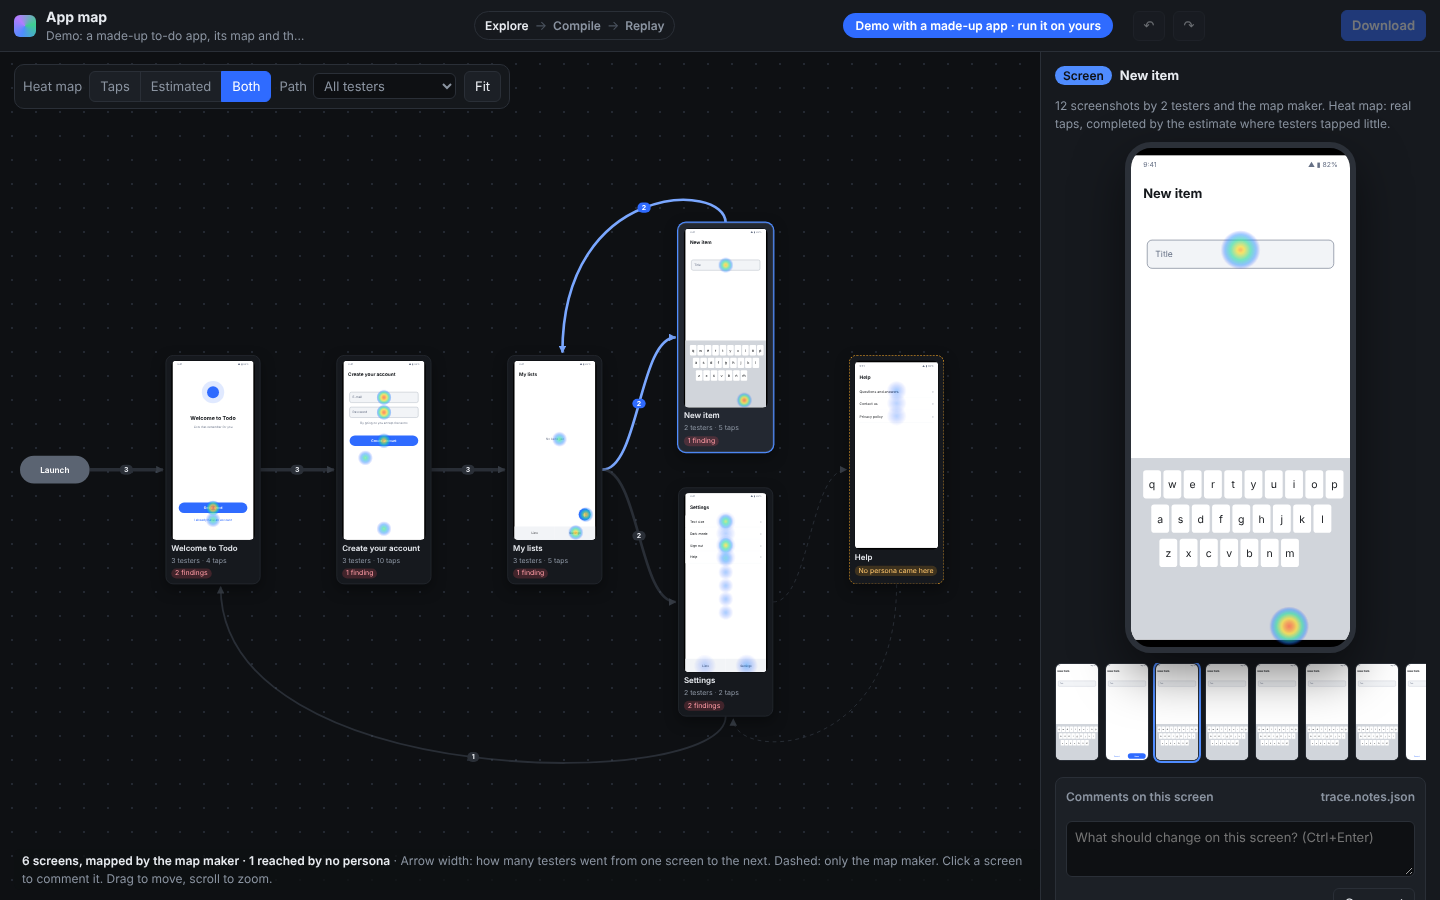
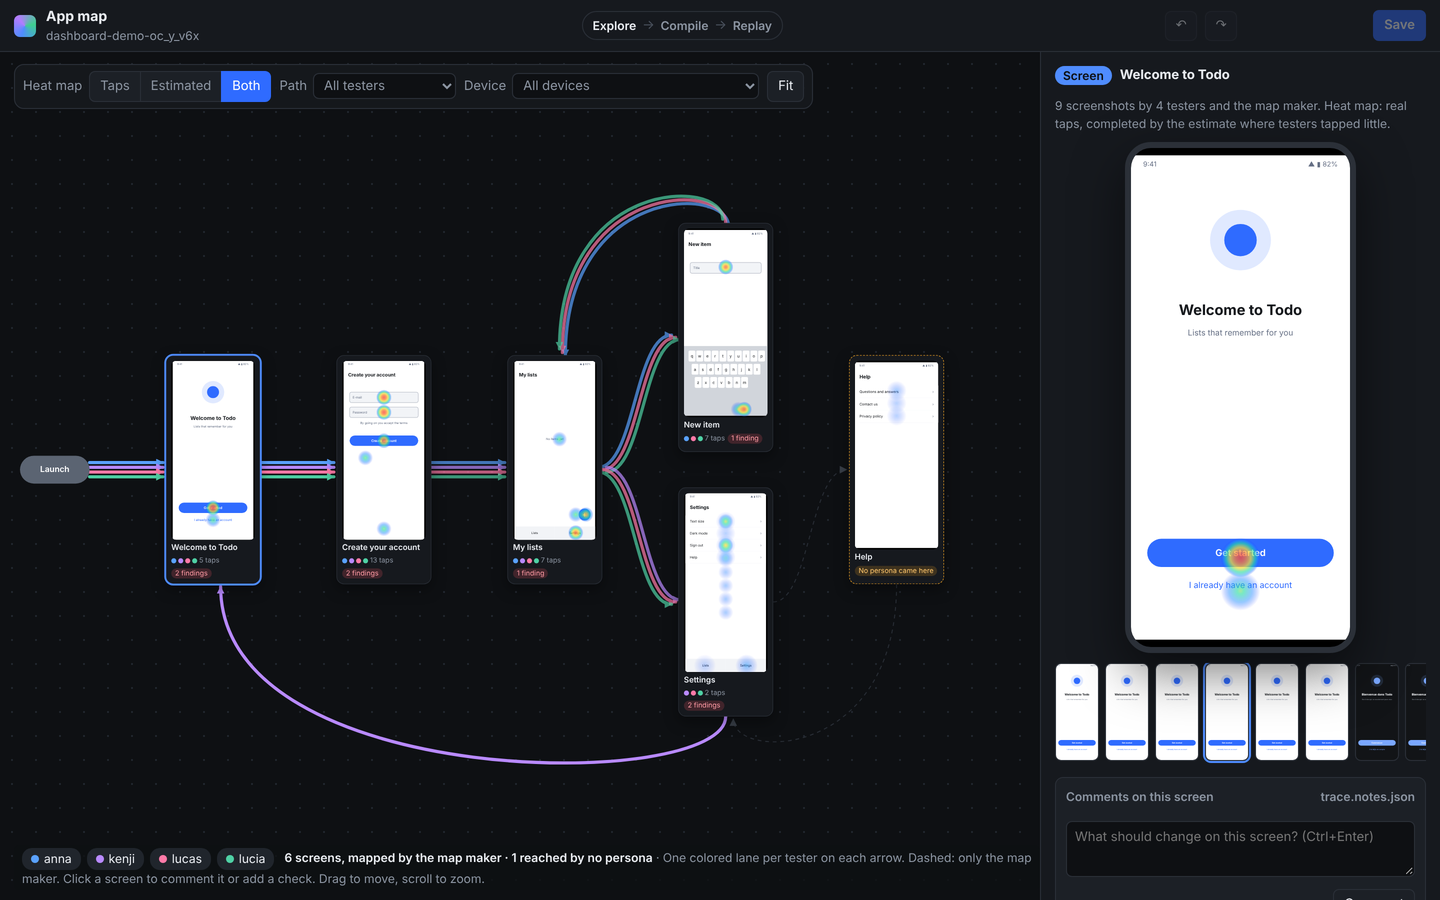
Map: one colored lane per tester on each arrow, a chip per tester, a dot per tester on each card

diff --git a/dashboard/app.js b/dashboard/app.js
@@ -372,6 +372,10 @@ function estimatedPoints(key, nn) {
 const firstVisit = (n) => n.visits.find((v) => !persona(v.key).mapper) || n.visits[0];
 const personaKeys = () => S.data.personas.filter((p) => !p.mapper).map((p) => p.key);
 
+// ---------- one color per tester, in the order of the run (the first three match the launch video) ----------
+const PALETTE = ["#5aa2ff", "#b98aff", "#ff7aa8", "#4fd1a5", "#ffb84d", "#5ad1e6", "#e6d95a", "#ff8a5a", "#9ad15a", "#d18aff"];
+const colorOf = (key) => { const i = personaKeys().indexOf(key); return i < 0 ? "#6b7686" : PALETTE[i % PALETTE.length]; };
+
 // ---------- devices: each tester's phone or tablet, and its shape on the map ----------
 const deviceOf = (key) => { const c = (traceOf(key).persona || {}).context || {}; const [w, h] = runSize(key); return c.device || `${w} × ${h}`; };
 const devices = () => [...new Set(personaKeys().map(deviceOf))];
@@ -405,7 +409,7 @@ function renderMap() {
   // edges
   const svg = svgEl("svg", { width: box.width, height: box.height, class: "map-edges" });
   const defs = svgEl("defs");
-  for (const [id, color] of [["map-arrow", "#6b7686"], ["map-arrow-on", "#7aa7ff"]]) {
+  for (const [id, color] of [["map-arrow", "#6b7686"], ...personaKeys().map((k, i) => [`map-arrow-${i}`, colorOf(k)])]) {
     const marker = svgEl("marker", { id, viewBox: "0 0 10 10", refX: 9, refY: 5, markerWidth: 12, markerHeight: 12, markerUnits: "userSpaceOnUse", orient: "auto" });
     marker.append(svgEl("path", { d: "M0,0 L10,5 L0,10 z", fill: color }));
     defs.append(marker);
@@ -435,11 +439,27 @@ function renderMap() {
       d = `M${x1},${y1} C${x1},${dip} ${x2},${dip} ${x2},${y2}`; lx = (x1 + x2) / 2; ly = (y1 + y2) / 8 + 0.75 * dip;
     }
     const title = (e.testers.size ? `${e.testers.size} tester${e.testers.size > 1 ? "s" : ""}, ${e.count} time${e.count > 1 ? "s" : ""}` : "Only the map maker went this way") + "\n" + [...e.actions].map(([k, v]) => `${k} (${v})`).join("\n");
-    const path = svgEl("path", { d, fill: "none", stroke: on ? "#7aa7ff" : "#4a5361", "stroke-width": e.testers.size ? 1.5 + 4 * (e.testers.size / maxCount) : 1.5,
-      ...(e.testers.size ? {} : { "stroke-dasharray": "6 6" }), "marker-end": on ? "url(#map-arrow-on)" : "url(#map-arrow)", opacity: on ? 1 : trail ? 0.15 : 0.45 });
-    const t = svgEl("title"); t.textContent = title; path.append(t);
-    svg.append(path);
-    if (e.testers.size) labels.push(h("div", { class: `edge-label${on ? " on" : ""}`, style: `left:${lx}px;top:${ly}px`, title }, String(e.testers.size)));
+    if (!e.testers.size) {   // only the map maker: dashed gray
+      const path = svgEl("path", { d, fill: "none", stroke: "#4a5361", "stroke-width": 1.5, "stroke-dasharray": "6 6", "marker-end": "url(#map-arrow)", opacity: trail ? 0.15 : on ? 0.9 : 0.45 });
+      const t = svgEl("title"); t.textContent = title; path.append(t);
+      svg.append(path);
+      continue;
+    }
+    // one lane per tester, in its color, side by side: 7.5 px apart, centred on the edge
+    const lanes = personaKeys().filter((k) => e.testers.has(k));
+    const pts = d.match(/-?\d+(\.\d+)?/g).map(Number);
+    const [sx, sy, ex, ey] = [pts[0], pts[1], pts[6], pts[7]];
+    const len = Math.hypot(ex - sx, ey - sy) || 1, nx = -(ey - sy) / len, ny = (ex - sx) / len;
+    lanes.forEach((k, li) => {
+      const off = (li - (lanes.length - 1) / 2) * 7.5;
+      const q = pts.map((v, vi) => v + off * (vi % 2 ? ny : nx));
+      const dl = `M${q[0]},${q[1]} C${q[2]},${q[3]} ${q[4]},${q[5]} ${q[6]},${q[7]}`;
+      const mine = trail ? k === S.mapPath : true;
+      const path = svgEl("path", { d: dl, fill: "none", stroke: colorOf(k), "stroke-width": 5, "stroke-linecap": "round",
+        "marker-end": `url(#map-arrow-${personaKeys().indexOf(k)})`, opacity: trail ? (mine && on ? 1 : 0.1) : on ? 1 : 0.7 });
+      const t = svgEl("title"); t.textContent = `${traceOf(k).persona.id}\n${title}`; path.append(t);
+      svg.append(path);
+    });
   }
 
   // nodes
@@ -455,7 +475,8 @@ function renderMap() {
       onclick: (ev) => { if (S.mapDragged) return; S.mapSel = n.g; S.mapShot = null; renderMap(); ev.stopPropagation(); } },
       h("div", { class: "thumb", style: `height:${n.h - 64}px` }, h("img", { src: screenUrl(rep.key, rep.nn), alt: "", class: matched ? "" : "other" }), canvas),
       h("span", { class: "t" }, screenTitle(info, rep.nn)),
-      h("span", { class: "m" }, n.testers.size ? `${n.testers.size} tester${n.testers.size > 1 ? "s" : ""} · ${taps} taps` : h("span", { class: "chip warn" }, "No persona came here"),
+      h("span", { class: "m" }, n.testers.size ? h("span", { class: "dots", title: personaKeys().filter((k) => n.testers.has(k)).map((k) => traceOf(k).persona.id).join(", ") },
+          ...personaKeys().filter((k) => n.testers.has(k)).map((k) => h("i", { style: `background:${colorOf(k)}` })), ` ${taps} taps`) : h("span", { class: "chip warn" }, "No persona came here"),
         !matched ? h("span", { class: "chip" }, S.mapPath ? `Not seen by ${traceOf(S.mapPath).persona.id}` : "Not seen on this device") : null,
         fnd.length ? h("span", { class: "chip bad", title: fnd.map((f) => f.title).join("\n") }, `${fnd.length} finding${fnd.length > 1 ? "s" : ""}`) : null,
         com.length ? h("span", { class: "chip", title: com.map((x) => x.c.text).join("\n") }, `✎ ${com.length}`) : null));
@@ -475,6 +496,8 @@ function renderMap() {
     const n = personaKeys().filter((k) => deviceOf(k) === d).length;
     return h("option", { value: d, selected: d === S.mapDevice }, `${d} (${n} tester${n > 1 ? "s" : ""})`);
   }));
+  $("#map-testers").replaceChildren(...personaKeys().map((k) => h("button", { class: `tester-chip${S.mapPath === k ? " on" : ""}`, title: "Show this tester's path",
+    onclick: () => { S.mapPath = S.mapPath === k ? null : k; renderMap(); } }, h("i", { style: `background:${colorOf(k)}` }), traceOf(k).persona.id)));
   $("#map-summary").textContent = (S.mapDevice ? `On ${S.mapDevice}: ` : "") + `${screens.length} screens${hasMapper ? ", mapped by the map maker" : ", as far as the testers went"}` +
     (hasMapper ? ` · ${unreached} reached by no persona` : " · run briefs/map.md to find every screen");
   applyPan(box);

diff --git a/dashboard/style.css b/dashboard/style.css
@@ -162,6 +162,11 @@ button.link:hover { text-decoration: underline; background: none; }
 .map-node.unreached { border-style: dashed; border-color: var(--warn); }
 .chip.warn { background: rgba(245,165,36,.18); color: #ffc66b; }
 .map-legend b { color: var(--text); font-weight: 600; }
+#map-testers { display: inline-flex; gap: 6px; margin-right: 10px; vertical-align: middle; }
+.tester-chip { display: inline-flex; align-items: center; gap: 5px; background: #20252c; color: var(--text); border: 1px solid transparent; border-radius: 10px; padding: 1px 8px; font-size: 12px; cursor: pointer; }
+.tester-chip.on { border-color: var(--text); }
+.tester-chip i, .map-node .dots i { width: 8px; height: 8px; border-radius: 50%; display: inline-block; }
+.map-node .dots { display: inline-flex; align-items: center; gap: 3px; }
 .map-node.faded { opacity: .3; }
 .fit.on { background: var(--accent-2); border-color: var(--accent-2); color: #fff; }
 .path { margin: 0; padding-left: 20px; display: grid; gap: 3px; }

diff --git a/dashboard/index.html b/dashboard/index.html
@@ -47,7 +47,7 @@
       <label class="select">Device <select id="map-device" aria-label="Show the screens and taps of one device"></select></label>
       <button id="map-fit" title="Fit the map to the window">Fit</button>
     </div>
-    <div class="map-legend"><b id="map-summary"></b> · Arrow width: how many testers went from one screen to the next. Dashed: only the map maker. Click a screen to comment it or add a check. Drag to move, scroll to zoom.</div>
+    <div class="map-legend"><span id="map-testers"></span><b id="map-summary"></b> · One colored lane per tester on each arrow. Dashed: only the map maker. Click a screen to comment it or add a check. Drag to move, scroll to zoom.</div>
   </div>
   <aside class="panel map-side" id="map-side"></aside>
 </section>

diff --git a/CHANGELOG.md b/CHANGELOG.md
@@ -8,7 +8,7 @@
 - **Replay: emptied fields and swipes**: the trace now holds a field the agent empties (`type.py ""`, or the cursor to the end then deletes), replays the tap that opens a field before it is emptied where its text ends, because Maestro erases before the cursor, and keeps the two ends of a swipe. The replay line names the kinds of the three steps before a stop. The Replay check follows 44 steps, with a long text typed over, and replays the path as it was once written to show where it stopped. See [docs/replay.md](docs/replay.md).
 - **Replay check**: a workflow started by hand follows a fixed path on Tiny Todo with the tools of an agent, writes the trace and replays it on an emulator, with no model and no secret (`gh workflow run replay-check.yml`). The trace now names each tap on the screen tree of that moment, also when the agent taps several times after one screenshot, counts elements that share a name the way Maestro does, and holds long presses, text typed with `adb shell input text` and several keys in one command.
 - **Replay right after the run (experimental)**: with `replay_path=true`, the path of each Android tester is compiled by Explore-Compile-Replay and replayed with Maestro on the same phone once the agent is done, with no model and no model key in its environment. The run page says in one line whether it passed or at which step it stopped; the flow and the details join the encrypted results. A replay that stops never fails the run. The trace now names the model that explored. See [docs/replay.md](docs/replay.md).
-- **Map of the app's screens (experimental)**: `python3 scripts/dashboard.py runs/<run id>` opens a page on your machine with a map of every screen of the app and the testers' paths on it: arrows as wide as the number of testers, a heat map of real or estimated taps on each screen, the findings seen there, one tester's path at a time, each device in its own shape with its own heat map, comments per screen. A finding becomes a check in two clicks: pick the element on the screen, must be visible or not, known bug; the check goes to `trace.json` (only checks can change) and the compiled flow stays red until the bug is fixed. A map maker agent ([briefs/map.md](briefs/map.md)) first opens every screen once, so the map shows the screens no persona reached. Each path is a trace that Explore-Compile-Replay compiles to a Maestro flow. Nothing leaves your machine. See [docs/dashboard.md](docs/dashboard.md).
+- **Map of the app's screens (experimental)**: `python3 scripts/dashboard.py runs/<run id>` opens a page on your machine with a map of every screen of the app and the testers' paths on it: one colored lane per tester on each arrow, a heat map of real or estimated taps on each screen, the findings seen there, one tester's path at a time, each device in its own shape with its own heat map, comments per screen. A finding becomes a check in two clicks: pick the element on the screen, must be visible or not, known bug; the check goes to `trace.json` (only checks can change) and the compiled flow stays red until the bug is fixed. A map maker agent ([briefs/map.md](briefs/map.md)) first opens every screen once, so the map shows the screens no persona reached. Each path is a trace that Explore-Compile-Replay compiles to a Maestro flow. Nothing leaves your machine. See [docs/dashboard.md](docs/dashboard.md).
 - **A replayable path for each Android tester (experimental)**: each run now writes `trace.json` next to the report, the taps the agent made stored by the name of the element, not by coordinates. [Explore-Compile-Replay](https://github.com/pierridotite/explore-compile-replay) compiles it to a Maestro flow that reruns with no model. The texts the agent typed are kept apart in `trace.params.json`. The agent's tools and brief do not change. See [docs/replay.md](docs/replay.md).
 - **Increased contrast and reduced motion**: two optional persona switches. `increase_contrast` turns on Increase Contrast on iOS (`simctl ui`) and high contrast text on Android; `reduce_motion` turns on Reduce Motion on iOS. Android emulators already run with animations off. Both are set before the app starts, and the agent is told about them. Grace and Sven use them.
 - **Shorter README**: the home page keeps what it does, the real runs, the quick start, contributing and the teams section. The FAQ, limits, how it works and the comparison with Maestro moved to [docs/faq.md](docs/faq.md), and every input with the supported frameworks to [docs/configuration.md](docs/configuration.md), in the five languages.

diff --git a/docs/dashboard.md b/docs/dashboard.md
@@ -2,7 +2,7 @@
 
 Each Android tester leaves its path in `trace.json` ([docs/replay.md](replay.md)). The dashboard draws every screen of the app as a map, puts the paths of the testers on it, and lets you comment each screen or turn what is wrong on it into a check that the replay verifies.
 
-<a href="https://pierridotite.github.io/mobile-agent-testers/"><img src="../assets/dashboard.png" alt="The dashboard: every screen of the made-up app as a map, arrows as wide as the number of testers, a heat map on each screen, the selected screen on the right" width="900"></a>
+<a href="https://pierridotite.github.io/mobile-agent-testers/"><img src="../assets/dashboard.png" alt="The dashboard: every screen of the made-up app as a map, one colored lane per tester on each arrow, a heat map on each screen, the selected screen on the right" width="900"></a>
 
 [Try the demo online](https://pierridotite.github.io/mobile-agent-testers/), with a made-up app, or [watch the video](../assets/dashboard-demo.mp4).
 
@@ -34,11 +34,11 @@ Open its run together with the persona runs. The map then shows every screen of 
 ## The map
 
 - **One card per screen**, with the screenshot, how many testers came, how many taps, and the findings seen there. Screenshots of the same screen are grouped, even across languages (by the ids of their elements).
-- **Arrows** from one screen to the next. The wider the arrow, the more testers went that way. A dashed arrow is a way only the map maker took.
+- **Arrows** from one screen to the next, one lane per tester in its own color, side by side when several went the same way. The chips at the bottom left name each color; a click on one shows that tester's path. Each card has a dot per tester who saw it. A dashed gray arrow is a way only the map maker took.
 - **A heat map on each screen**: the real taps of the testers, an estimate of where people would look and tap, or both (the estimate fills in where testers tapped little). The estimate weighs each control by its size and by how often testers tapped it on other screens. A file `NN.saliency.json` next to a screenshot (`{"points": [[x, y, weight], ...]}`, x and y from 0 to 1), from a saliency model of your choice, replaces it.
 - Click a screen to open it on the right: its screenshots, its comments, the findings, the testers who came, where they came from and where they went next.
 - **Checks on a screen**: "Add a check", click an element on the screen, then say whether it must be visible or must not be. From a finding, "Make it a test" does the same, marked as a known bug. See below.
-- **One tester's path**: pick it in "Path", or "Show path" on a screen. Its arrows stand out, the other screens fade, and the panel lists its screens in order. The cards then show that tester's screenshots, in the shape of its phone or tablet.
+- **One tester's path**: pick it in "Path", or "Show path" on a screen. Its lane keeps its color, the others fade, and the panel lists its screens in order. The cards then show that tester's screenshots, in the shape of its phone or tablet.
 - **One device**: pick it in "Device" (shown when the run has several). The cards show the screenshots taken on that device, in its shape, and the heat map counts only the taps made on it, so a button easy to reach on a phone and missed on a tablet stands out. A screen nobody reached on that device fades. The map can only show the devices that ran: add a persona on a tablet (Lucia, Pixel Tablet) to see that shape. The demo has one.
 
 Drag to move the map, scroll to zoom. Comments on a screen go to `trace.notes.json` of the first persona who saw it, under `screens`. Undo and redo with Ctrl+Z and Ctrl+Shift+Z, save with Ctrl+S.
